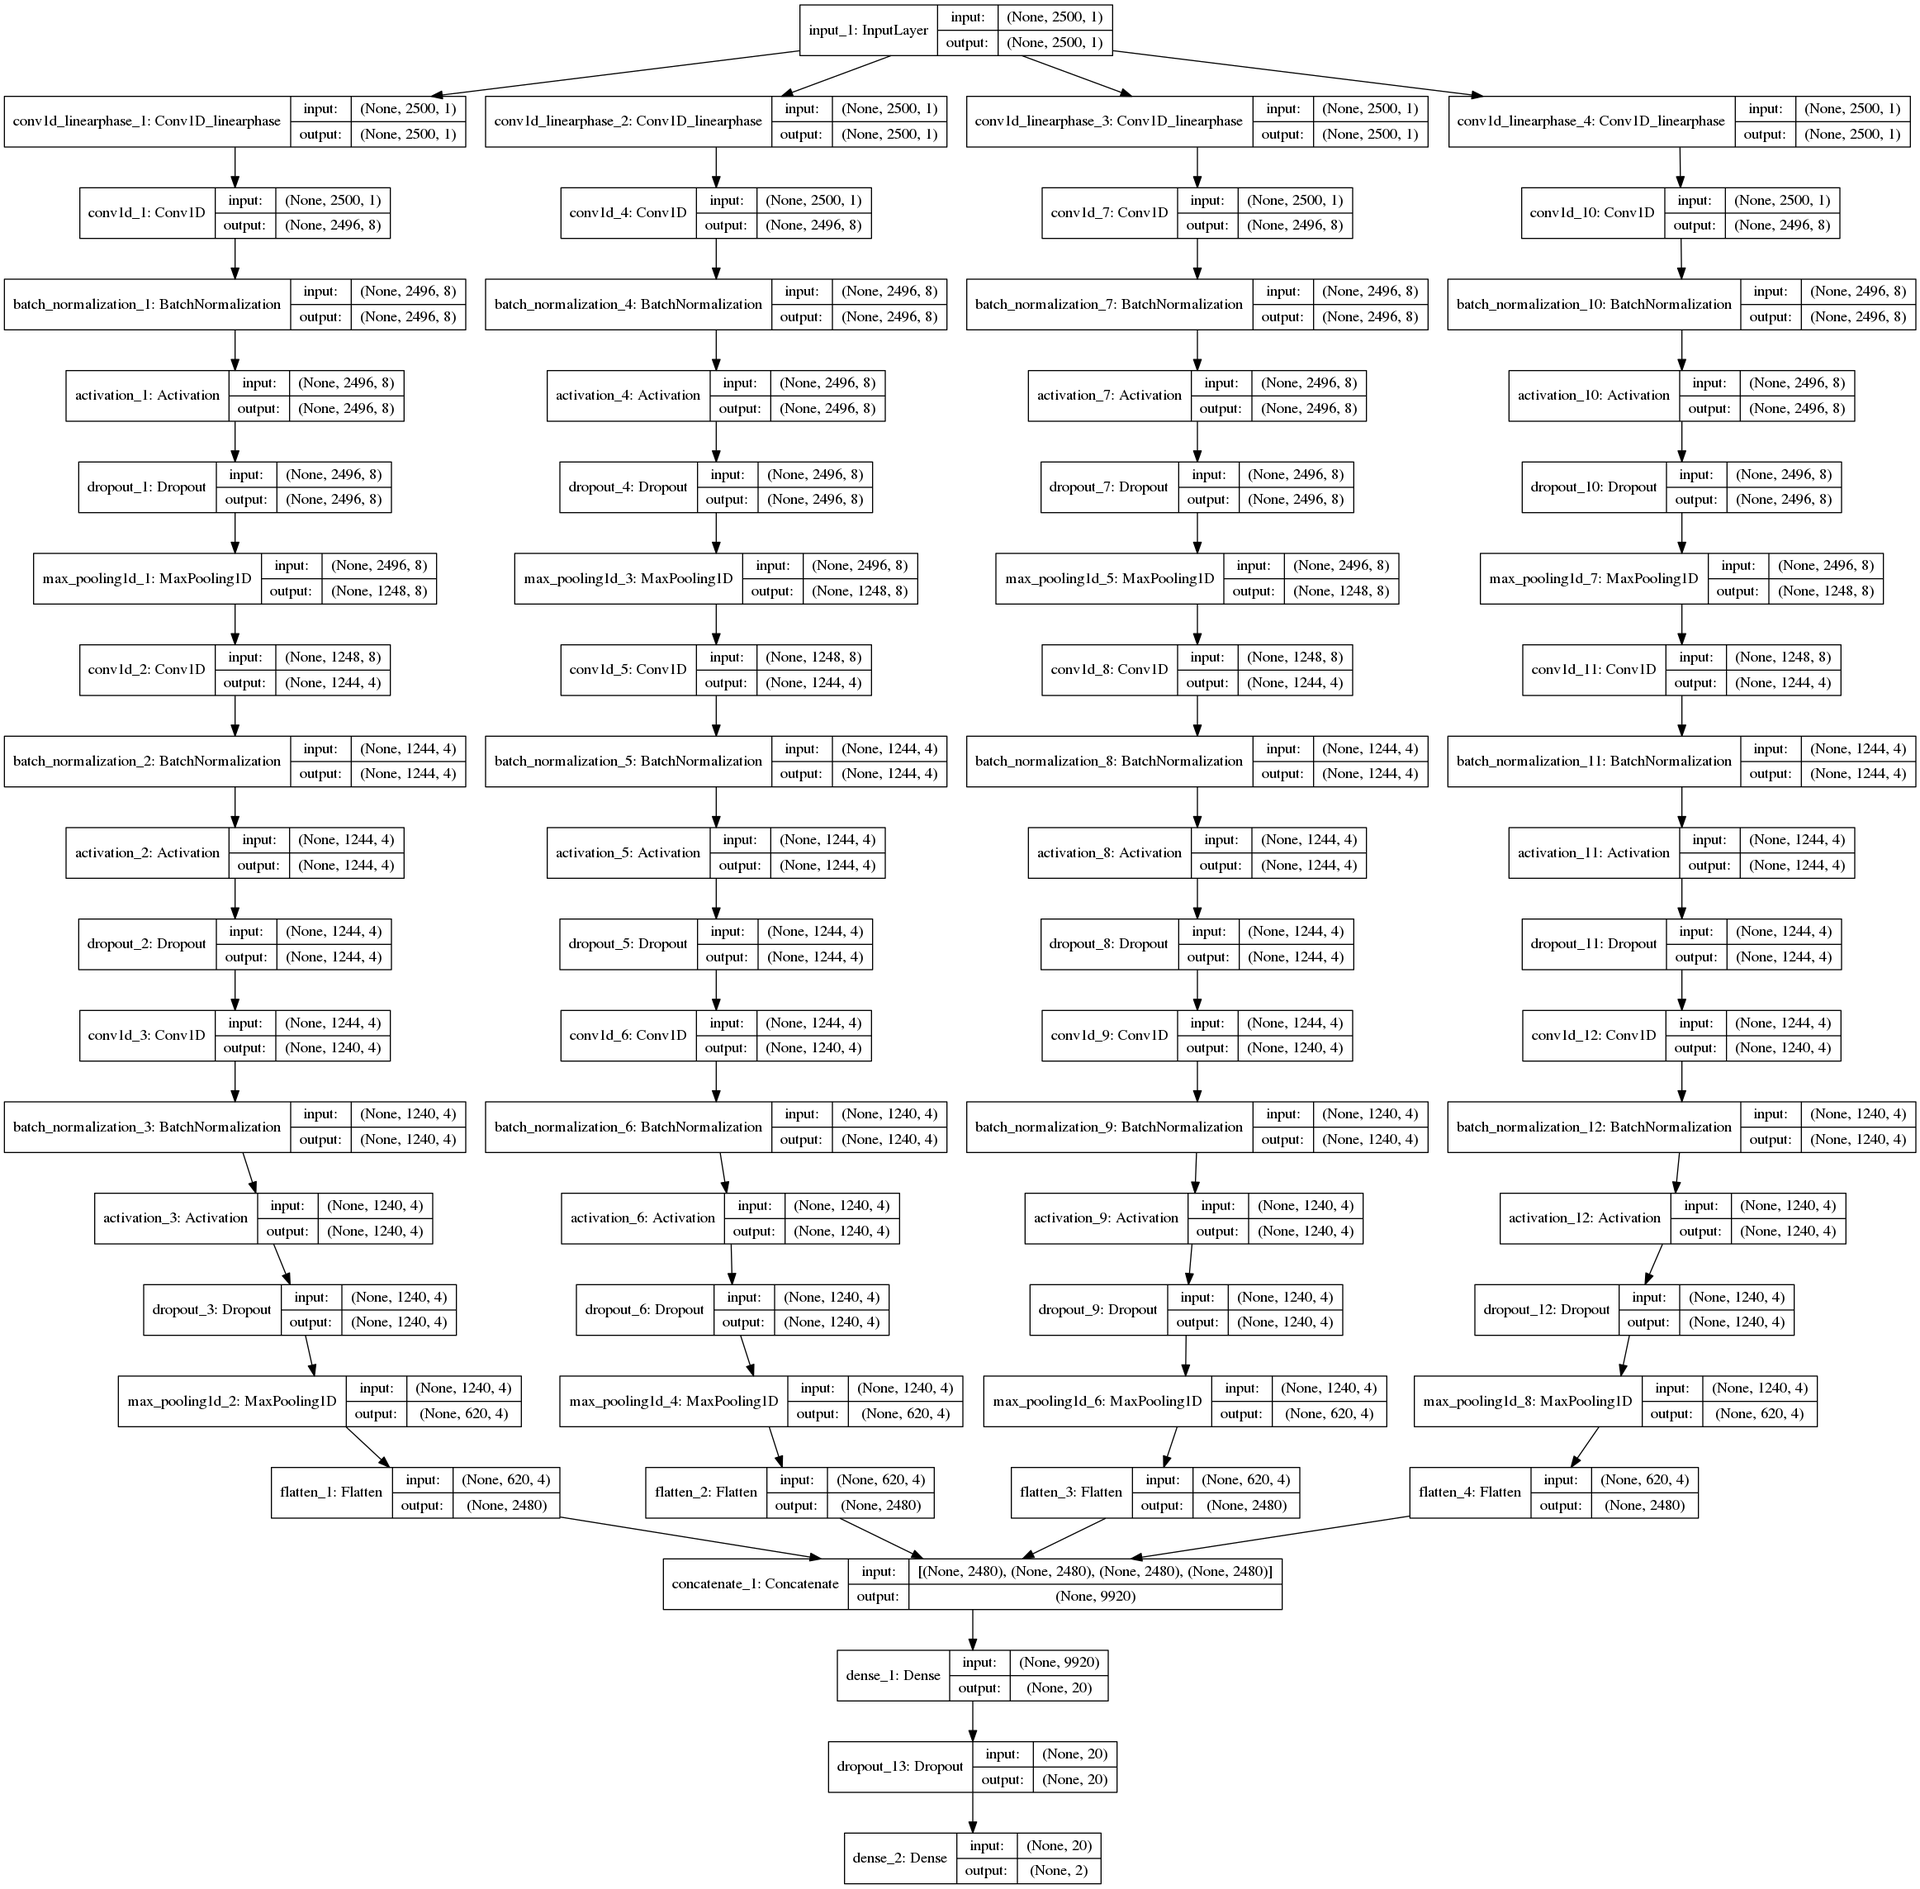
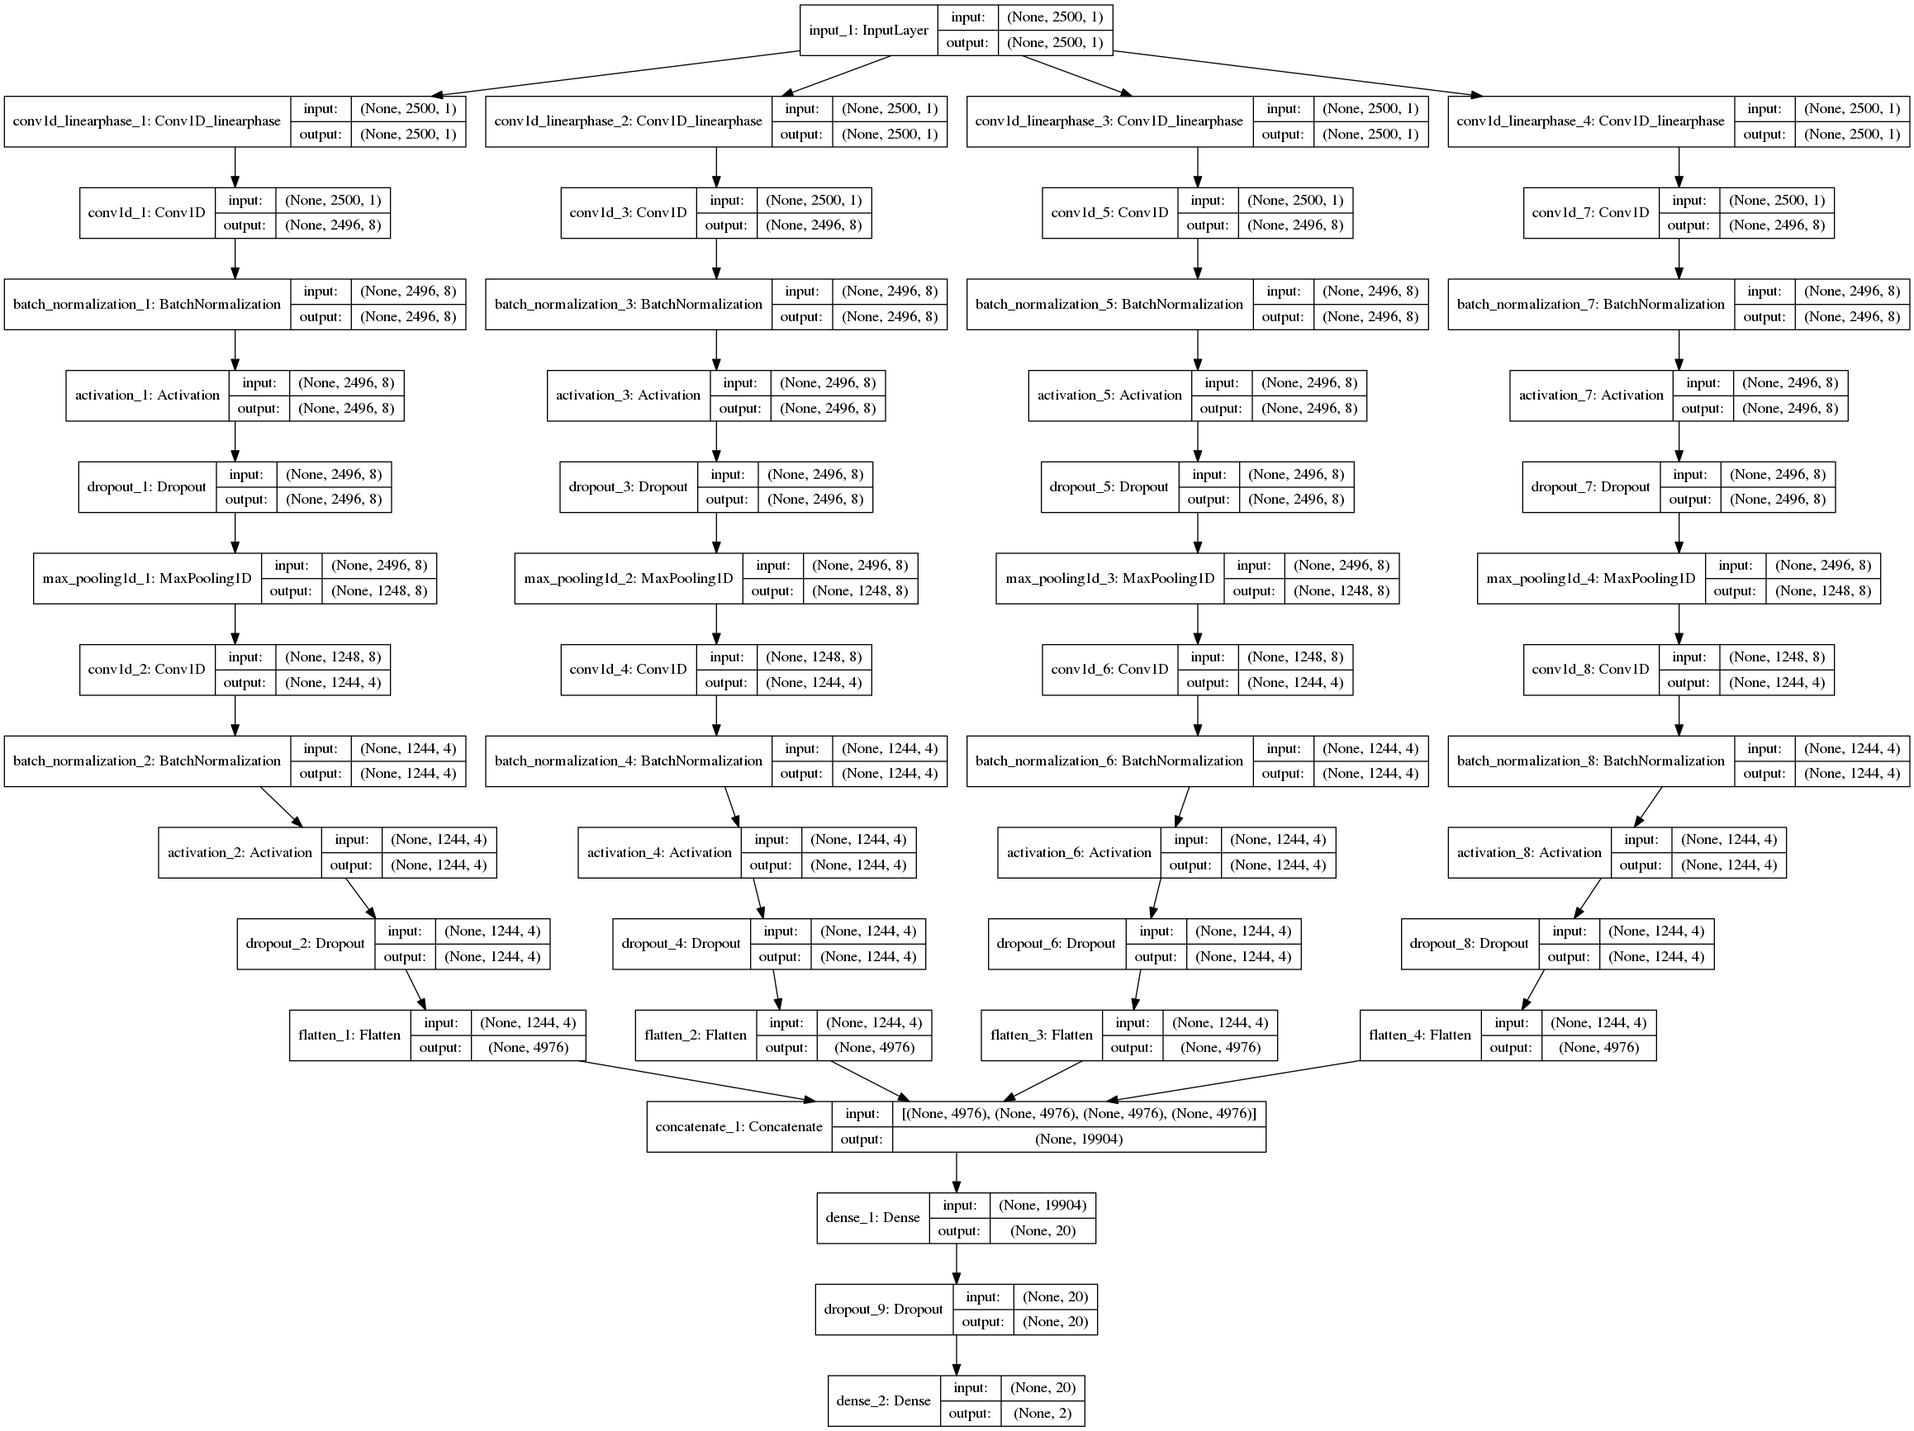
changed activation to sigmoid

Changed region(s): [[0.0, 0.0, 1.0, 1.0]]

diff --git a/codes/heartnet_v1.py b/codes/heartnet_v1.py
@@ -30,7 +30,7 @@ from keras.utils import plot_model
 from custom_layers import Conv1D_zerophase_linear, Conv1D_linearphase, Conv1D_zerophase
 from sklearn.metrics import confusion_matrix
 from keras.utils import to_categorical
-import matplotlib.pyplot as plt
+# import matplotlib.pyplot as plt
 
 def branch(input_tensor,num_filt,kernel_size,random_seed,padding,bias,maxnorm,l2_reg,
            eps,bn_momentum,activation_function,dropout_rate,subsam,trainable):
@@ -43,7 +43,7 @@ def branch(input_tensor,num_filt,kernel_size,random_seed,padding,bias,maxnorm,l2
                 kernel_constraint=max_norm(maxnorm),
                 trainable=trainable,
                 kernel_regularizer=l2(l2_reg))(input_tensor)
-    t = BatchNormalization(epsilon=eps, momentum=bn_momentum, axis=-1)(t)
+    # t = BatchNormalization(epsilon=eps, momentum=bn_momentum, axis=-1)(t)
     t = Activation(activation_function)(t)
     t = Dropout(rate=dropout_rate, seed=random_seed)(t)
     t = MaxPooling1D(pool_size=subsam)(t)
@@ -54,20 +54,20 @@ def branch(input_tensor,num_filt,kernel_size,random_seed,padding,bias,maxnorm,l2
                 trainable=trainable,
                 kernel_constraint=max_norm(maxnorm),
                 kernel_regularizer=l2(l2_reg))(t)
-    t = BatchNormalization(epsilon=eps, momentum=bn_momentum, axis=-1)(t)
+    # t = BatchNormalization(epsilon=eps, momentum=bn_momentum, axis=-1)(t)
     t = Activation(activation_function)(t)
     t = Dropout(rate=dropout_rate, seed=random_seed)(t)
-    t = Conv1D(num_filt2, kernel_size=kernel_size,
-               kernel_initializer=initializers.he_normal(seed=random_seed),
-               padding=padding,
-               use_bias=bias,
-               trainable=trainable,
-               kernel_constraint=max_norm(maxnorm),
-               kernel_regularizer=l2(l2_reg))(t)
-    t = BatchNormalization(epsilon=eps, momentum=bn_momentum, axis=-1)(t)
-    t = Activation(activation_function)(t)
-    t = Dropout(rate=dropout_rate, seed=random_seed)(t)
-    t = MaxPooling1D(pool_size=subsam)(t)
+    # t = Conv1D(num_filt2, kernel_size=kernel_size,
+    #            kernel_initializer=initializers.he_normal(seed=random_seed),
+    #            padding=padding,
+    #            use_bias=bias,
+    #            trainable=trainable,
+    #            kernel_constraint=max_norm(maxnorm),
+    #            kernel_regularizer=l2(l2_reg))(t)
+    # t = BatchNormalization(epsilon=eps, momentum=bn_momentum, axis=-1)(t)
+    # t = Activation(activation_function)(t)
+    # t = Dropout(rate=dropout_rate, seed=random_seed)(t)
+    # t = MaxPooling1D(pool_size=subsam)(t)
     t = Flatten()(t)
     return t
 
@@ -389,7 +389,7 @@ if __name__ == '__main__':
         dropout_rate = 0.5
         dropout_rate_dense = 0.2
         padding = 'valid'
-        activation_function = 'relu'
+        activation_function = 'sigmoid'
         subsam = 2
         FIR_train=True
         decision = 'majority'  # Decision algorithm for inference over total recording ('majority','confidence')
@@ -397,7 +397,7 @@ if __name__ == '__main__':
         lr =  0.0012843784 ## After bayesian optimization
 
         ###### lr_decay optimization ######
-        lr_decay =0.0001132885
+        lr_decay =0.00001132885
         # lr_decay =3.64370733503E-06
         # lr_decay =3.97171548784E-08
         ###################################
